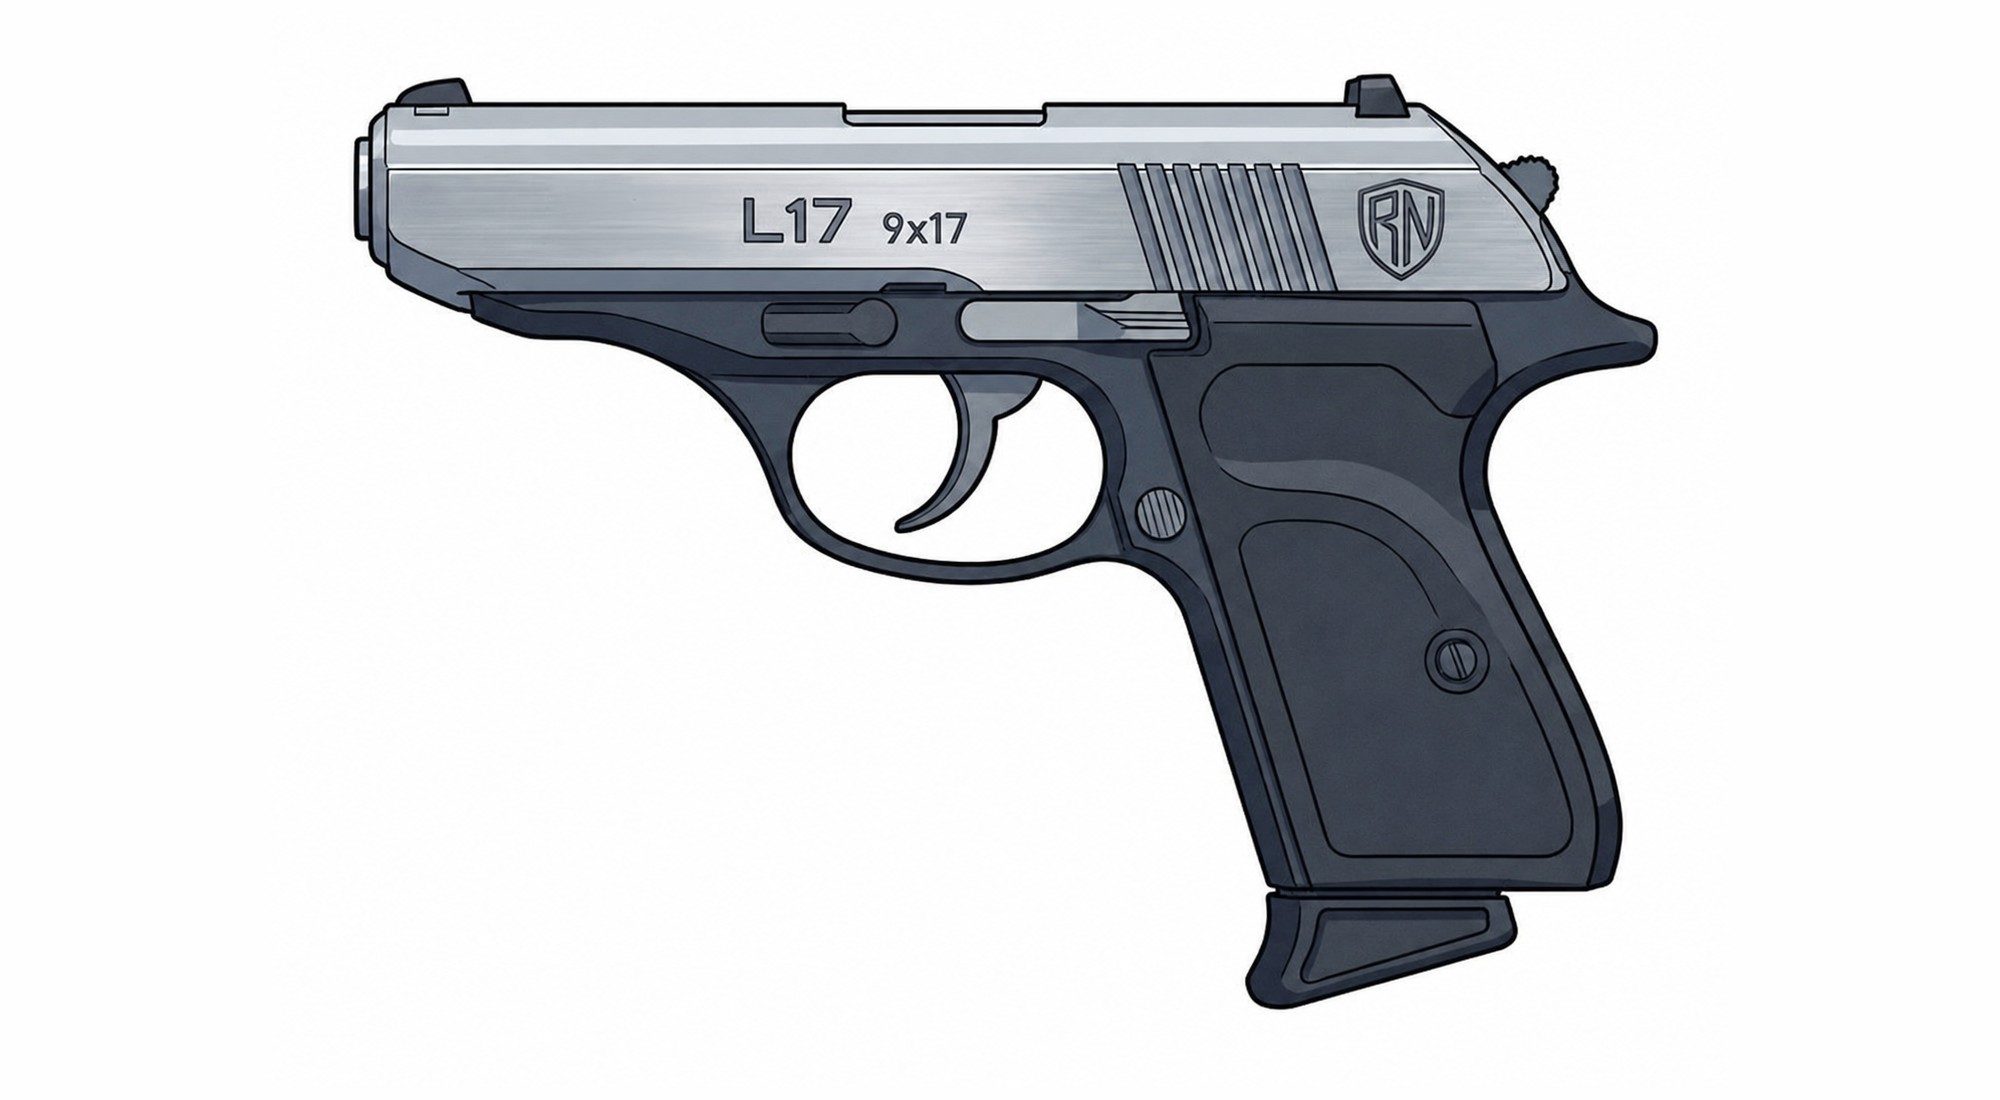
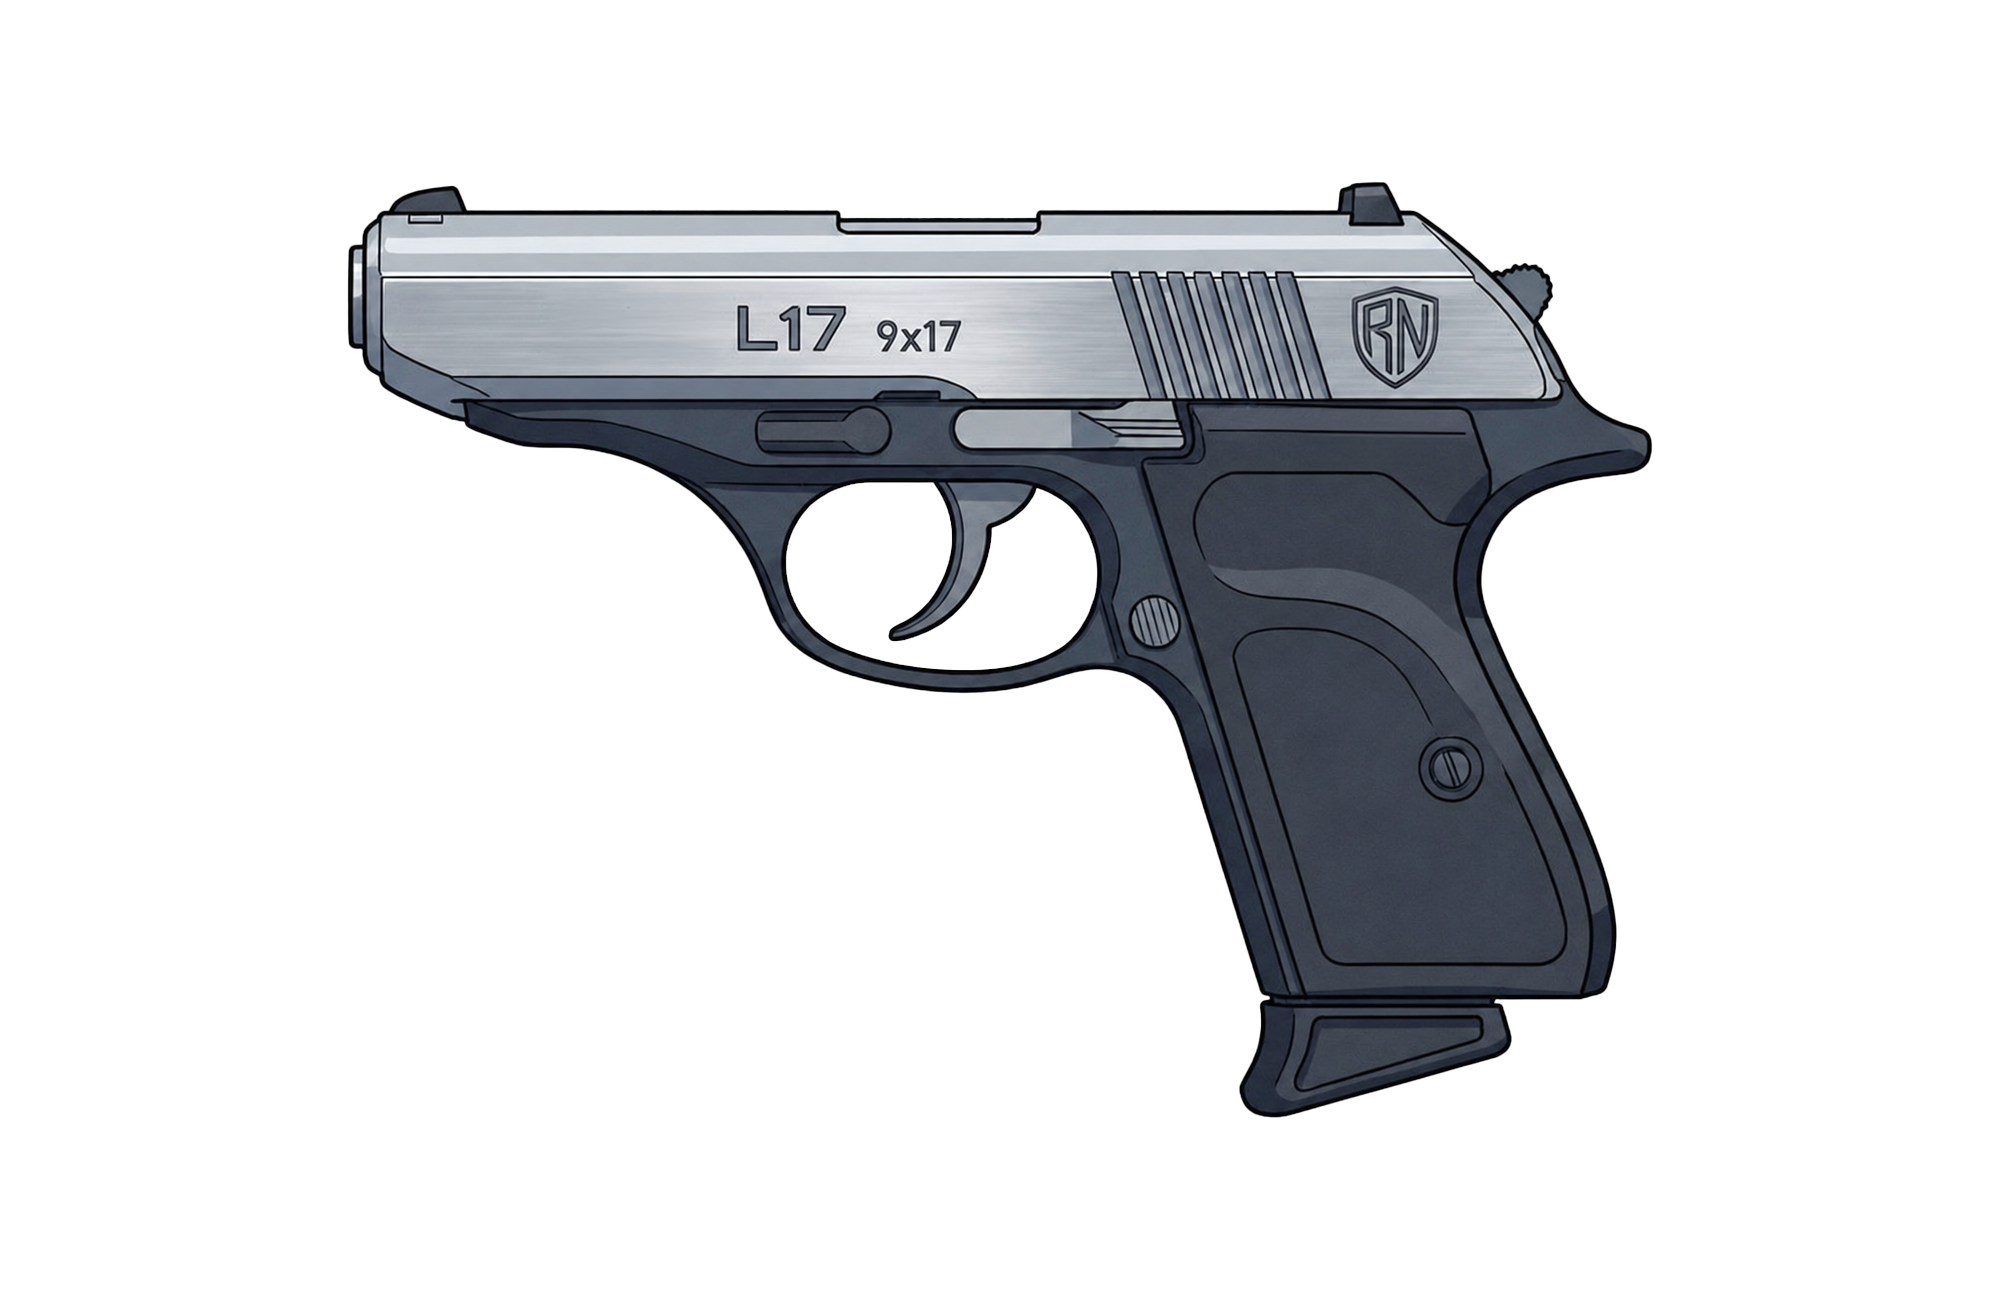
Add Magpie artwork and modern pistol details

Changed region(s): [[0.155, 0.0618, 0.837, 0.6491], [0.589, 0.6182, 0.837, 0.9273]]

diff --git a/index.html b/index.html
@@ -70,13 +70,22 @@
               <a class="button button-primary" href="characters.html">Browse characters <span aria-hidden="true">→</span></a>
             </section>
 
-            <div class="date-divider"><span>27 August 2026 · Latest updates</span></div>
+            <div class="date-divider"><span>28 August 2026 · Latest updates</span></div>
+
+            <article class="dispatch reveal" id="update-magpie-art-modern-controls-and-link-hover">
+              <div class="dispatch-avatar avatar-violet" aria-hidden="true">MA</div>
+              <div class="dispatch-body">
+                <div class="dispatch-author"><strong>Weapons Archive</strong><span>28 Aug 2026 · Magpie configuration</span></div>
+                <p>The revised Sparrow artwork and the first approved Magpie artwork are now in the archive. Both pistols record their current lack of external manual safeties, while the Magpie now documents its optional compensator and extended magazine. Quiet archive links also gain a restrained accent color only while hovered.</p>
+                <a class="button button-secondary dispatch-button" href="weapons.html#ren-l19-magpie">View the Magpie configuration <span aria-hidden="true">→</span></a>
+              </div>
+            </article>
 
             <article class="dispatch reveal" id="update-quiet-prose-links">
               <div class="dispatch-avatar avatar-blue" aria-hidden="true">IL</div>
               <div class="dispatch-body">
                 <div class="dispatch-author"><strong>Archive Interface</strong><span>27 Aug 2026 · Quiet cross-links</span></div>
-                <p>Automatic links between characters, institutions, places, weapons, and lore terms now look exactly like the surrounding prose, including inside document tables. They remain clickable without underlines or accent colors.</p>
+                <p>Automatic links between characters, institutions, places, weapons, and lore terms now look exactly like the surrounding prose at rest, including inside document tables. A restrained accent appears only while a link is hovered.</p>
                 <a class="button button-secondary dispatch-button" href="docs.html?doc=questions-to-be-answered">Review the quiet document links <span aria-hidden="true">→</span></a>
               </div>
             </article>

diff --git a/styles.css b/styles.css
@@ -617,6 +617,56 @@
   border-top: 1px solid var(--weapon-line);
 }
 
+.weapon-options {
+  margin-top: 18px;
+  padding: 18px;
+  border: 1px solid var(--weapon-line);
+  border-radius: 6px;
+  background: #25272c;
+}
+
+.weapon-options > span {
+  color: #aeb4ff;
+  font-size: .67rem;
+  font-weight: 750;
+  letter-spacing: .12em;
+}
+
+.weapon-options > p {
+  margin: 8px 0 16px;
+  color: #b5bac3;
+  font-size: .82rem;
+  line-height: 1.55;
+}
+
+.weapon-option-list {
+  display: grid;
+  grid-template-columns: repeat(2, minmax(0, 1fr));
+  border-top: 1px solid var(--weapon-line);
+}
+
+.weapon-option-list article {
+  padding: 16px 16px 0 0;
+}
+
+.weapon-option-list article + article {
+  padding-right: 0;
+  padding-left: 16px;
+  border-left: 1px solid var(--weapon-line);
+}
+
+.weapon-option-list strong {
+  color: #e2e4e8;
+  font-size: .82rem;
+}
+
+.weapon-option-list p {
+  margin: 6px 0 0;
+  color: #aeb2bb;
+  font-size: .77rem;
+  line-height: 1.55;
+}
+
 .weapon-record-footer {
   display: grid;
   grid-template-columns: minmax(0, 1fr) minmax(230px, .65fr);
@@ -931,6 +981,20 @@
     border-top: 1px solid var(--weapon-line);
   }
 
+  .weapon-option-list {
+    grid-template-columns: 1fr;
+  }
+
+  .weapon-option-list article {
+    padding: 14px 0;
+  }
+
+  .weapon-option-list article + article {
+    padding-left: 0;
+    border-top: 1px solid var(--weapon-line);
+    border-left: 0;
+  }
+
   .weapon-reference-list {
     padding-top: 20px;
     padding-left: 0;
@@ -990,10 +1054,11 @@ body::before {
 .archive-entity-link {
   color: inherit;
   text-decoration: none;
+  transition: color 150ms ease;
 }
 
 .archive-entity-link:hover {
-  color: inherit;
+  color: #aeb4ff;
   text-decoration: none;
 }
 
@@ -5189,9 +5254,13 @@ a.moment-connection-card:hover {
 
 .markdown-body a.archive-entity-link,
 .markdown-body a.archive-entity-link:visited,
-.markdown-body a.archive-entity-link:hover,
 .markdown-body a.archive-entity-link:active {
   color: inherit;
+  text-decoration: none;
+}
+
+.markdown-body a.archive-entity-link:hover {
+  color: #aeb4ff;
   text-decoration: none;
 }
 

diff --git a/weapons.js b/weapons.js
@@ -119,12 +119,29 @@ function renderWeapon(weapon, index) {
   const facts = weaponElement('dl', 'weapon-primary-facts');
   facts.append(makeFact('Role', weapon.role));
   if (weapon.storyUse) facts.append(makeFact('Story use', weapon.storyUse));
+  if (weapon.modernizationNote) facts.append(makeFact('Current production', weapon.modernizationNote));
 
   const design = weaponElement('section', 'weapon-design-copy');
   design.append(weaponElement('span', '', 'DESIGN LANGUAGE'), weaponElement('p', '', weapon.designSummary));
 
   const characteristics = weaponElement('ul', 'weapon-characteristics');
   weapon.characteristics.forEach((characteristic) => characteristics.append(weaponElement('li', '', characteristic)));
+
+  let options;
+  if (weapon.options?.length) {
+    options = weaponElement('section', 'weapon-options');
+    options.append(
+      weaponElement('span', '', 'OPTIONAL CONFIGURATION'),
+      weaponElement('p', '', weapon.optionsSummary || '')
+    );
+    const optionList = weaponElement('div', 'weapon-option-list');
+    weapon.options.forEach((option) => {
+      const optionRecord = weaponElement('article');
+      optionRecord.append(weaponElement('strong', '', option.name), weaponElement('p', '', option.effect));
+      optionList.append(optionRecord);
+    });
+    options.append(optionList);
+  }
 
   const footer = weaponElement('div', 'weapon-record-footer');
   const notes = weaponElement('div', 'weapon-character-note');
@@ -140,7 +157,9 @@ function renderWeapon(weapon, index) {
   references.append(referenceTags);
   footer.append(notes, references);
 
-  body.append(header, facts, design, characteristics, footer);
+  body.append(header, facts, design, characteristics);
+  if (options) body.append(options);
+  body.append(footer);
   if (weapon.characterLinks?.length) {
     const characterLinks = weaponElement('div', 'weapon-character-links');
     characterLinks.append(weaponElement('span', '', 'CHARACTER RECORDS'));

diff --git a/weapons.html b/weapons.html
@@ -106,7 +106,7 @@
               <header class="weapons-section-heading reveal">
                 <div><span>03</span><p class="eyebrow">Current catalog</p></div>
                 <h2 id="weapon-catalog-title">Ren Arms pistol family</h2>
-                <p>Approved reference art appears with its matching record. Remaining visual bays stay reserved, and no placeholder is presented as a final weapon design.</p>
+                <p>Approved reference art now accompanies the Sparrow and Magpie. Remaining visual bays stay reserved, and no placeholder is presented as a final weapon design.</p>
               </header>
               <div class="weapon-record-list" id="weapon-record-list" aria-live="polite"></div>
             </section>
